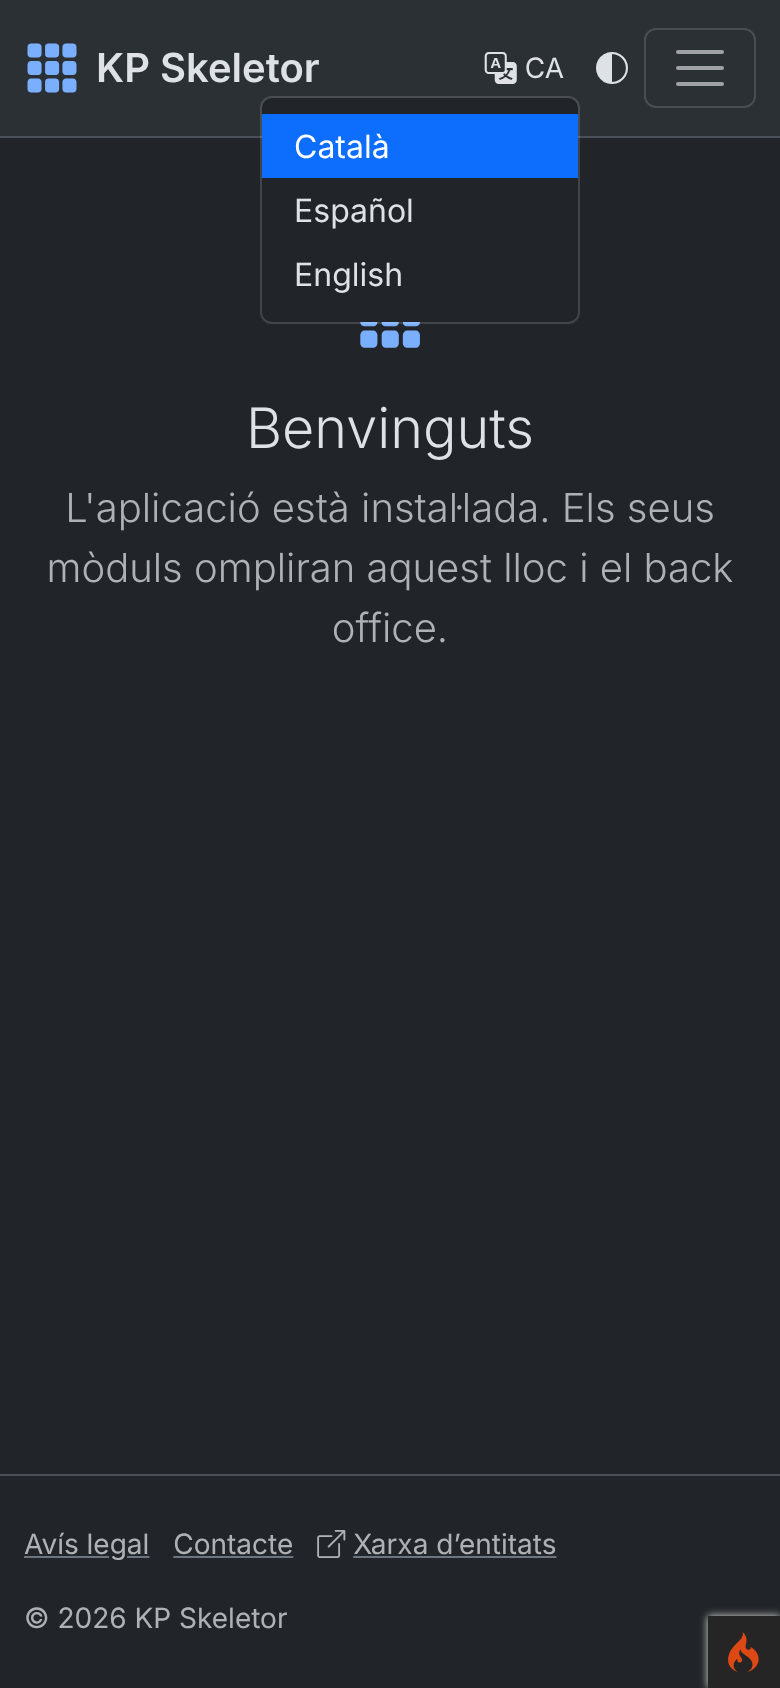
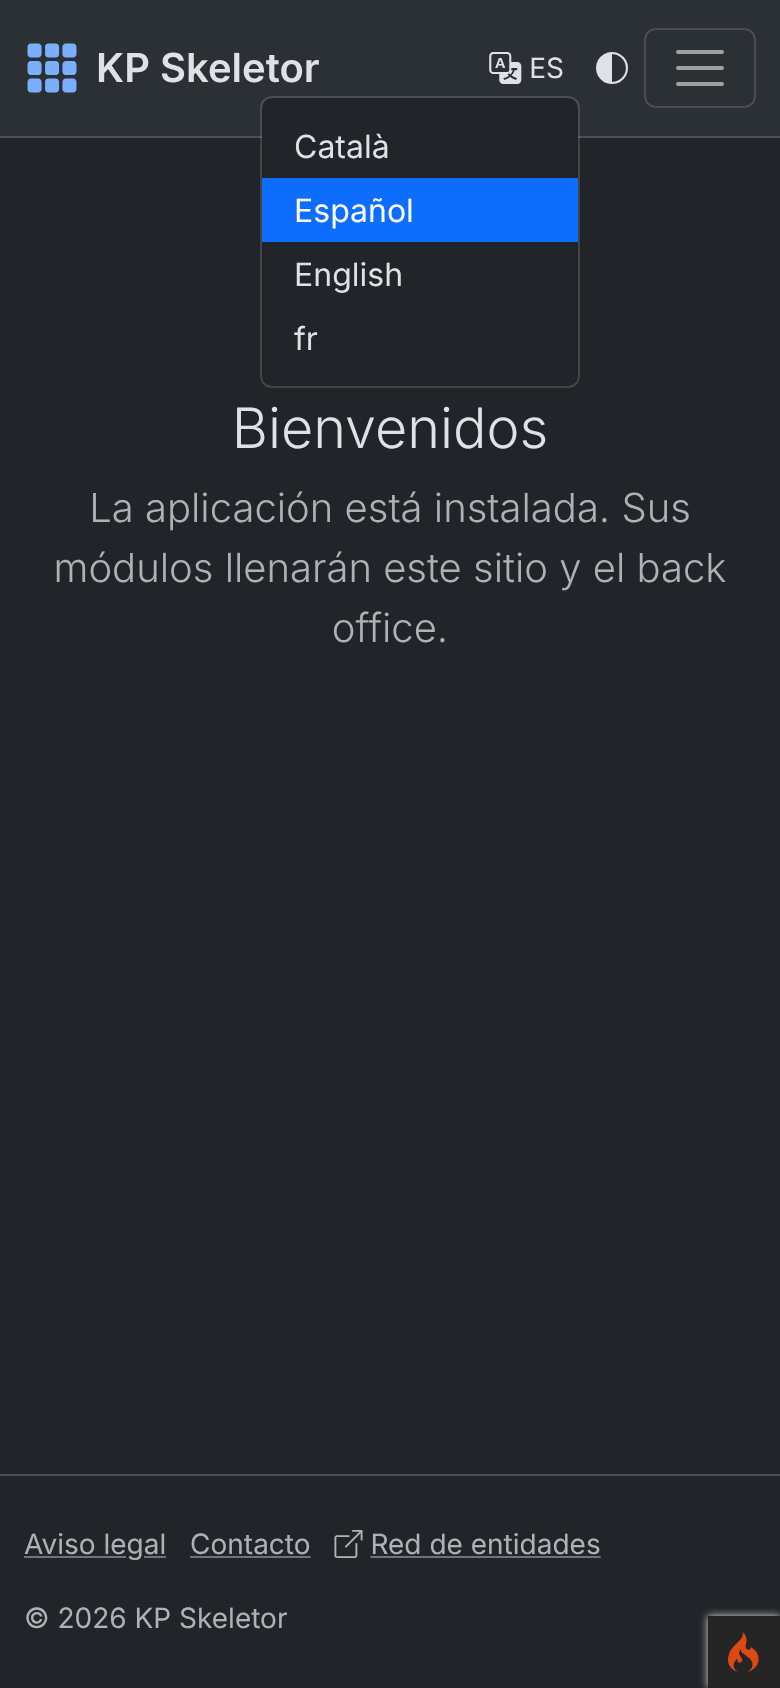
Session 37: report and screenshots for the language in public URLs
Claude-Session: https://claude.ai/code/session_01BM6RU6tdEks1MwVaXspyQx

diff --git a/deploy-status/37-content-locales/README.md b/deploy-status/37-content-locales/README.md
@@ -15,11 +15,13 @@ Branch: `claude/tender-pasteur-75mv6z` · Pull request: [SIENSIS/kpskeletor#51](
   a new default language is required on the next edit, existing records stay readable.
 - Slugs, activity summaries and notification titles use the default language's text (else the
   first one filled in); help texts and the Menus "label required" message name that language.
-- **Public language switch** (added at the owner's request during the session, D-37-02 decided as built):
-  the default theme's public header shows a globe with the current code next to the light/dark
-  switch; visitors choose among the site's languages (cookie `kp_locale`, which wins over the
-  browser), and a signed-in user's choice becomes their profile language. Hidden with a single
-  language or with the theme option `languageSwitch` off.
+- **The language in public URLs** (added at the owner's request during the session, D-37-02):
+  `/qui-som` is in the site's default language, `/es/quienes-somos` in Spanish, `/en/news/…` in
+  English; internal links keep the prefix; the public header shows a language switch (globe + the
+  current code, next to the light/dark switch) that links to the same page in every language (each
+  page's own slugs for Pages); `hreflang` alternates and a sitemap with every translation. The back
+  office, the API and the sign-in pages are unchanged. Hidden with a single language or with the
+  theme option `languageSwitch` off.
 - Calendar titles of birthdays and to-do task due dates are written in every site language;
   FullCalendar loads its locale file for any vendored language.
 
@@ -51,14 +53,18 @@ Branch: `claude/tender-pasteur-75mv6z` · Pull request: [SIENSIS/kpskeletor#51](
   FullCalendar locale. `Core/Settings/TranslatedText.php` falls back to the default language.
 - **Settings:** `Core.defaultLocale` and `Core.locales` take their choices from the supported
   locales through `optionsProvider` (`Core/I18n/DefaultLocaleOptions.php`, `LocaleOptions.php`).
-- **Language switch:** `modules/Core/Controllers/LanguageSwitch.php` (`POST language`, route
-  `language-switch`; ignores locales not offered, cookie `kp_locale` for a year, HTTP-only,
-  event `localeChosen` for signed-in users, `safe_redirect()` back), `LocaleNegotiator::COOKIE`
-  read by the `locale` filter (profile → chosen → browser → default), Auth's listener in
-  `modules/Auth/Config/Events.php` saves the profile language; view
-  `themes/default/Views/partials/language_switch.php` (POST forms, no JavaScript), theme option
-  `languageSwitch`, styles in `theme.css`.
-- **No tables, permissions or commands changed;** one public route added (`POST language`); no migration (one translation row per
+- **Language in the URL:** `modules/Core/I18n/LocaleRouter.php` (the `router` service in
+  `app/Config/Services.php`) reads the prefix before routing, so module routes are unchanged;
+  `modules/Core/I18n/LocaleUrls.php` (service `localeurls`: split, public paths, redirects of
+  `/ca/…`, unavailable languages and `/es/<non-public>`, `localize()`, `url()`, alternates, links,
+  `hreflang`); `app/Config/LocaleUrls.php` (`$enabled`, `$excluded`); the application's
+  `site_url()` in `app/Helpers/url_helper.php` keeps the prefix; the `locale` filter applies the
+  URL's language and `authsession` keeps the profile's for non-public paths only;
+  `themes/default/Views/partials/language_switch.php` (links) and `partials/head.php`
+  (`hreflang`); Pages: `PublicPages` (alternates, redirect of another language's slug),
+  `PageTree::translatedPaths()`, `SitemapBuilder` (every translation), language codes reserved
+  in `PageSlugs`.
+- **No tables, permissions, routes or commands changed;** no migration (one translation row per
   locale already).
 
 ## Decisions and deviations
@@ -67,9 +73,10 @@ Branch: `claude/tender-pasteur-75mv6z` · Pull request: [SIENSIS/kpskeletor#51](
   deprecated alias: a constant cannot follow a setting), and the behaviour when languages are
   added, removed or the default changes. The specification's "Catalan as the required language"
   now reads "the site's default language".
-- **D-37-02** (decided by the owner on 2026-11-19: cookie + profile, as built): the public language switch's URL `POST language`, cookie
-  `kp_locale` and event `localeChosen`, built as proposed; alternatives: a language prefix in the
-  URL, `?lang=` links, or keeping a signed-in user's public choice apart from the profile.
+- **D-37-02** (decided by the owner on 2026-11-19): the language is part of public URLs (no prefix
+  = the default language). A first version (a cookie + the profile language, `POST language`) was
+  built and decided first, then replaced the same day at the owner's request (Pages has one slug per
+  language; better for SEO and usability).
 - Earlier gaps fixed because they blocked the goal: the language settings only offered ca/es/en;
   help texts and a Menus message named Catalan; translated settings fell back to Catalan.
 - Tests: the suite runs with `app.defaultLocale=en` (English assertions), which would make English
@@ -110,10 +117,14 @@ New tests (all in the suite):
   code (allow-list: language files, `Database/`, `Config/`, tests, `Locales`, `Language`); the
   removed constants are not used.
 - `modules/Core/Tests/I18nTest.php::testTheLanguageSettingsOfferEverySupportedLocale`.
-- `modules/Core/Tests/LanguageSwitchTest.php`: the header offers the available languages; hidden
-  with one language or the option off; the cookie wins over the browser; locales not offered
-  ignored; only internal `return` paths; forged POST without CSRF refused; a signed-in user's
-  choice becomes the profile language (back office follows).
+- `modules/Core/Tests/LocaleUrlsTest.php`: no prefix = the default language whatever the browser;
+  the prefix gives the language and internal links keep it; the switch links to the same page in
+  every language and `hreflang`/`x-default` are listed; hidden with one language or the option
+  off; redirects of `/ca/…`, `/es/login`, `/es/backend` and unavailable languages; back office and
+  sign-in keep negotiating (profile, browser); it can be turned off.
+- `modules/Pages/Tests/PublicPagesTest.php`: `/es/quienes-somos`, the redirect of another
+  language's slug, canonical and `hreflang` per translation, the home page per language, the
+  sitemap with every translation.
 
 Results:
 
@@ -148,26 +159,26 @@ Catalan optional.*
 *04 — The Events category form at phone width in dark mode: the same four tabs.*
 
 ![Public news in French](screenshots/05-public-news-fr-fallback.png)
-*05 — A public post opened by a French browser: no French text, so the Spanish one (the site's
-default) is shown instead of the Catalan one; the interface texts follow the language chain
-(fr → es).*
+*05 — A public post at `/fr/news/…`: no French text, so the Spanish one (the site's default)
+is shown instead of the Catalan one; the interface texts follow the language chain (fr → es).*
 
 ![Public language switch](screenshots/06-public-language-switch.png)
-*06 — The public language switch open on the news list (globe + current code, next to the
-light/dark switch).*
+*06 — The public language switch open on the news list (`/news`, the default language; Spanish in this demo, Settings › General): links
+to `/ca/…` → `/news`, `/en/news`… (globe + current code, next to the light/dark switch).*
 
 ![After choosing English](screenshots/07-public-after-choosing-english.png)
-*07 — The same page after choosing English: back on `/news`, interface in English, content falls
-back to the default language where there is no English text.*
+*07 — After choosing English: the same page at `/en/news`, interface in English, content falls
+back to the default language where there is no English text; its links stay under `/en/`.*
 
 ![Language switch, phone, dark](screenshots/08-public-language-switch-phone-dark.png)
 *08 — The switch at phone width in dark mode, next to the colour-mode switch and the menu button.*
 
 ## Known issues
 
-- The public switch changes the language through a cookie, so each page keeps one URL for every
-  language (no `hreflang` alternates for search engines; a URL prefix would be a later session,
-  D-37-02 alternative A).
+- News, Events and Tasks have one slug per record (from the default language), so their URLs differ
+  only by the prefix (`/news/x`, `/es/news/x`); Pages has one slug per language.
+- Page caching (`pagecache`, unused today) keys pages by the routed path: it would mix the
+  languages of one page if turned on.
 - A new language shows its code (`fr`) on tabs and checkboxes until `Core.locales.<code>` and its
   language files exist (`docs/i18n.md`, "Adding a language", step 2).
 - Composer needed the known issue 04 workaround again: `phpstan/phpstan` (zip only) installed
